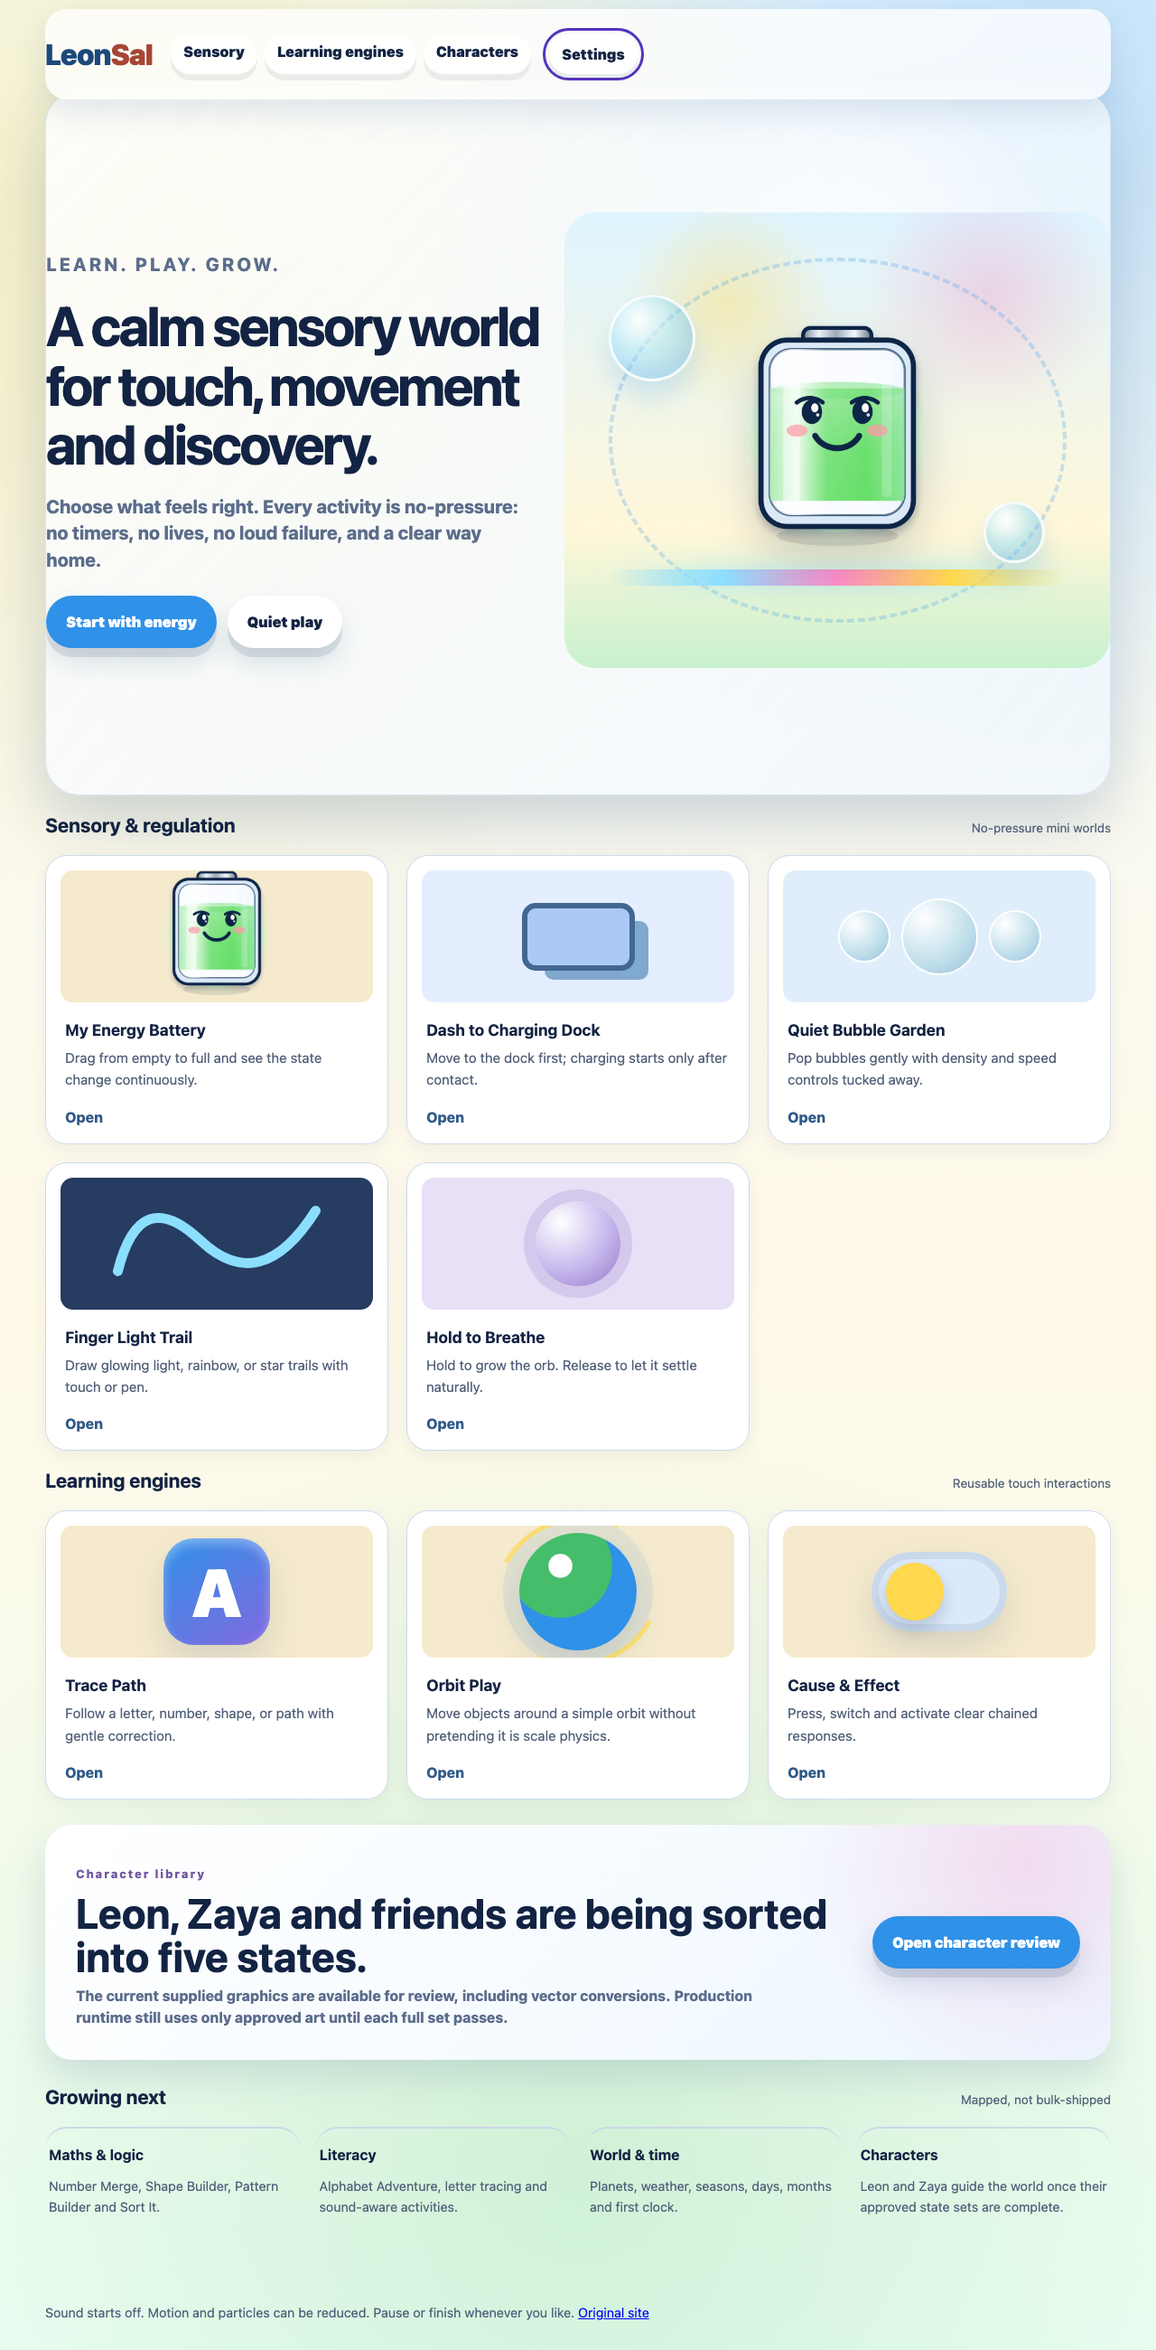
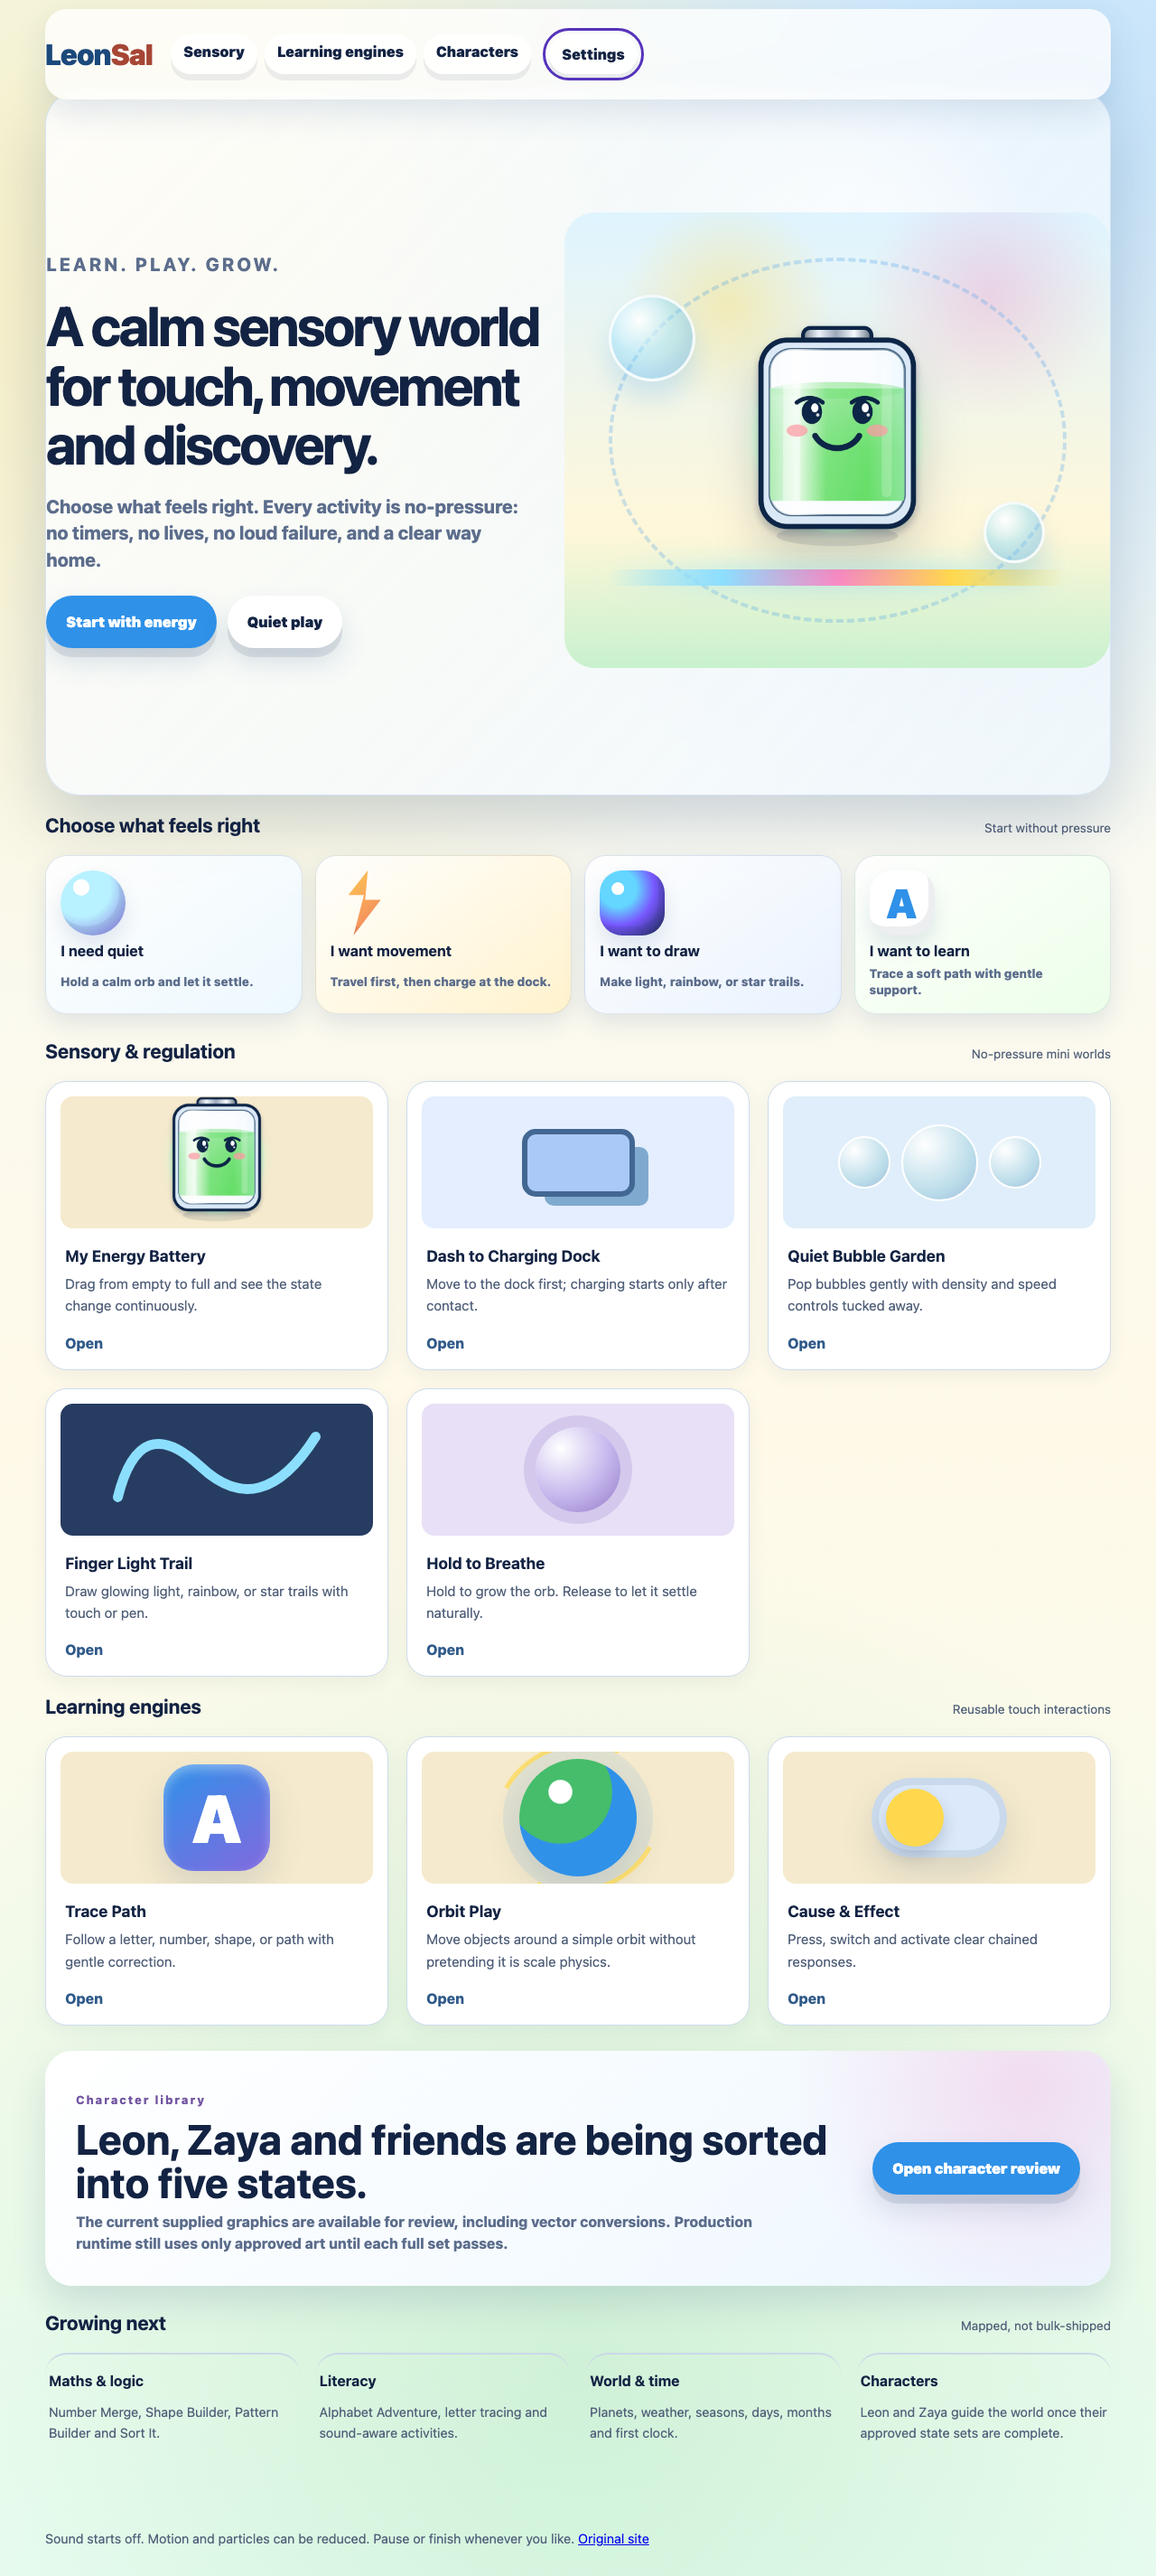
Add sensory need picker to V2 home

diff --git a/v2-proofs.css b/v2-proofs.css
@@ -657,6 +657,45 @@ body.v2-hub {
   grid-template-columns: repeat(3, minmax(0, 1fr));
 }
 
+.need-picker { margin: 8px 0 28px; }
+.need-grid {
+  display: grid;
+  grid-template-columns: repeat(4, minmax(0, 1fr));
+  gap: 14px;
+}
+.need-card {
+  min-height: 176px;
+  border: 1px solid rgba(35, 71, 118, .13);
+  border-radius: 24px;
+  padding: 16px;
+  display: grid;
+  grid-template-rows: 72px auto auto;
+  gap: 8px;
+  color: var(--ink);
+  text-decoration: none;
+  background: rgba(255,255,255,.86);
+  box-shadow: 0 10px 24px rgba(31, 78, 130, .12);
+}
+.need-card:active { transform: translateY(3px) scale(.985); }
+.need-card span {
+  width: 72px;
+  height: 72px;
+  border-radius: 25px;
+  display: block;
+  box-shadow: inset -7px -10px 0 rgba(19,35,67,.08), 0 12px 22px rgba(31,78,130,.12);
+}
+.need-card strong { font-size: 1.02rem; line-height: 1.1; }
+.need-card small { color: var(--muted); line-height: 1.35; font-weight: 800; }
+.calm-need { background: linear-gradient(145deg, rgba(255,255,255,.9), #edf8ff); }
+.calm-need span { border-radius: 50%; background: radial-gradient(circle at 32% 26%, #fff 0 12%, #b8f1ff 13% 45%, #8269df 100%); }
+.move-need { background: linear-gradient(145deg, rgba(255,255,255,.92), #fff2cd); }
+.move-need span { background: linear-gradient(135deg, #ffd84d, #ef6f66); clip-path: polygon(58% 0, 28% 38%, 52% 38%, 36% 100%, 78% 45%, 54% 45%); border-radius: 18px; }
+.draw-need { background: linear-gradient(145deg, rgba(255,255,255,.9), #e9f2ff); }
+.draw-need span { background: radial-gradient(circle at 28% 28%, #fff 0 9%, #64d6ff 10% 28%, #7858ff 55%, #132343 100%); }
+.learn-need { background: linear-gradient(145deg, rgba(255,255,255,.9), #ecffe9); }
+.learn-need span { background: #fff; position: relative; }
+.learn-need span::before { content: "A"; position: absolute; inset: 0; display: grid; place-items: center; color: #2f91e8; font-size: 2.8rem; font-weight: 1000; }
+
 .world-game {
   border-radius: 26px;
   transition: transform .18s ease, box-shadow .18s ease;
@@ -825,6 +864,19 @@ body[data-calm="true"] .hub-art {
   .hub-game-grid,
   .hub-engine-grid {
     grid-template-columns: 1fr;
+  }
+  .need-grid {
+    grid-template-columns: 1fr 1fr;
+  }
+  .need-card {
+    min-height: 150px;
+    grid-template-rows: 56px auto auto;
+    border-radius: 20px;
+  }
+  .need-card span {
+    width: 56px;
+    height: 56px;
+    border-radius: 19px;
   }
   .hub-character-panel {
     grid-template-columns: 1fr;

diff --git a/v2-home.html b/v2-home.html
@@ -43,6 +43,16 @@
       </div>
     </section>
 
+    <section class="need-picker" aria-labelledby="need-title">
+      <div class="world-section-heading"><h2 id="need-title">Choose what feels right</h2><span>Start without pressure</span></div>
+      <div class="need-grid">
+        <a href="v2-hold-to-breathe.html" class="need-card calm-need"><span aria-hidden="true"></span><strong>I need quiet</strong><small>Hold a calm orb and let it settle.</small></a>
+        <a href="v2-dash-dock.html" class="need-card move-need"><span aria-hidden="true"></span><strong>I want movement</strong><small>Travel first, then charge at the dock.</small></a>
+        <a href="v2-light-trail.html" class="need-card draw-need"><span aria-hidden="true"></span><strong>I want to draw</strong><small>Make light, rainbow, or star trails.</small></a>
+        <a href="v2-trace-engine.html" class="need-card learn-need"><span aria-hidden="true"></span><strong>I want to learn</strong><small>Trace a soft path with gentle support.</small></a>
+      </div>
+    </section>
+
     <section aria-labelledby="sensory-title">
       <div class="world-section-heading"><h2 id="sensory-title">Sensory &amp; regulation</h2><span>No-pressure mini worlds</span></div>
       <div class="world-games hub-game-grid">
